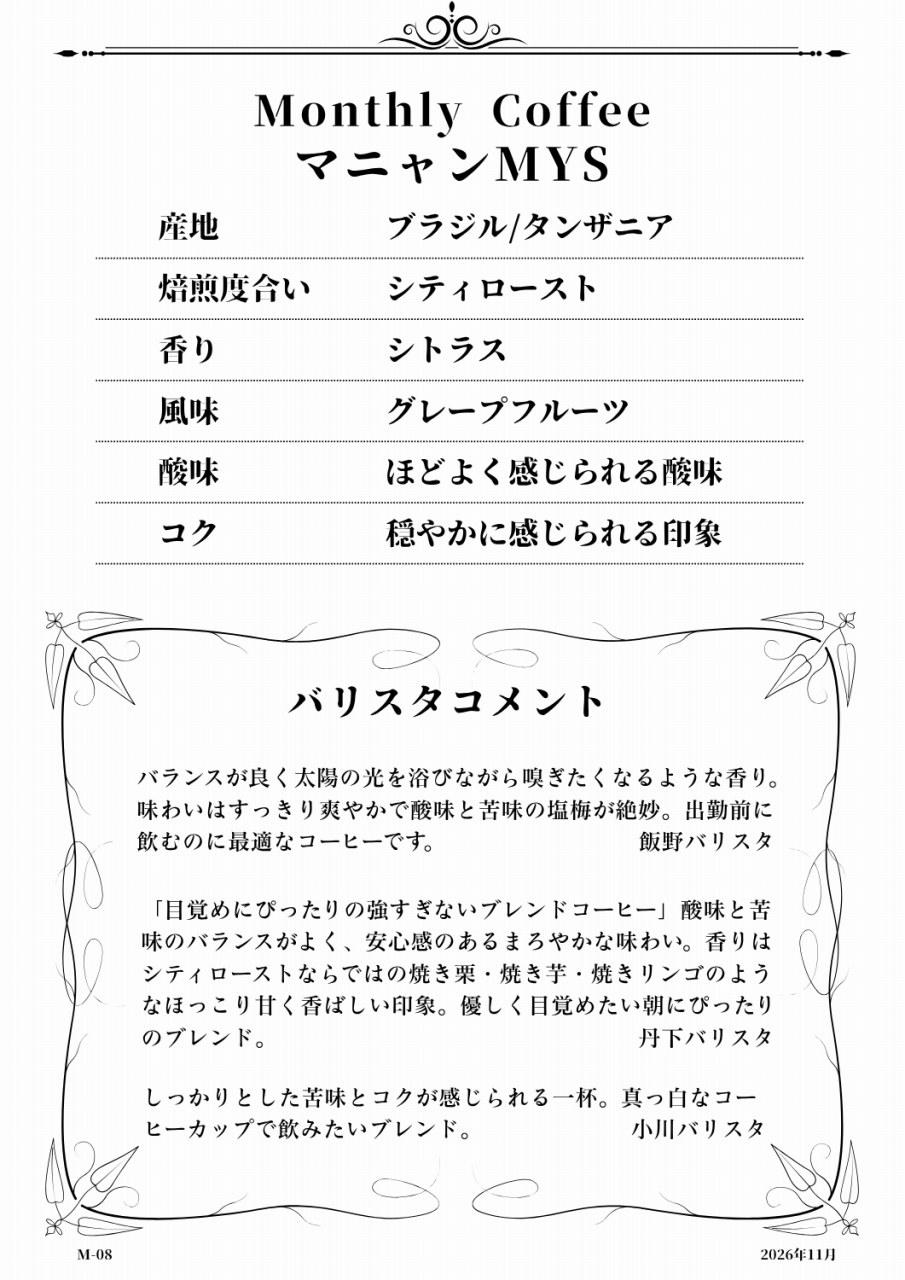
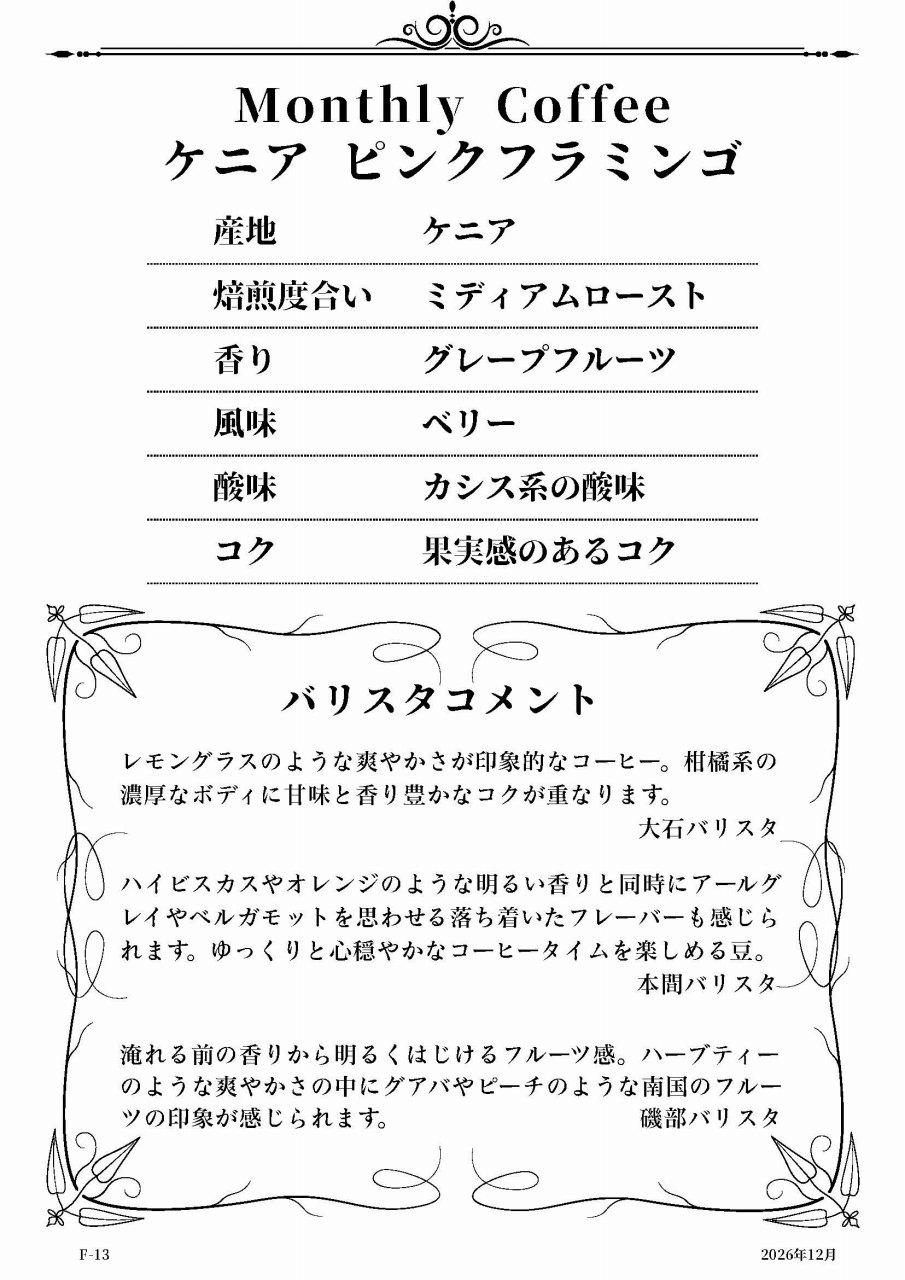
feat: update December monthly coffee and standardize monthly update workflow

Changed region(s): [[0.0309, 0.0, 0.9591, 1.0], [0.7735, 0.0938, 0.8354, 0.1562], [0.7735, 0.1875, 0.8354, 0.2188]]

diff --git a/public/en/index.html b/public/en/index.html
@@ -541,23 +541,41 @@
       <h2 class="text-4xl font-bold text-center mb-4 text-primary" data-aos="fade-up">Coffee Beans Collection</h2>
       <p class="text-center text-lg text-secondary mb-12" data-aos="fade-up">— 30 House-Roasted Varieties —</p>
 
-      <!-- Monthly Recommendations: cross-link banner -->
-      <div class="bg-gradient-to-r from-accent/10 to-accent/20 rounded-xl p-6 mb-16 shadow border border-accent/30" data-aos="fade-up">
-        <div class="flex flex-col sm:flex-row items-center justify-between gap-4">
-          <div>
-            <p class="font-bold text-primary text-lg mb-1">Monthly Coffee Recommendations</p>
-            <p class="text-text text-sm leading-relaxed">Our featured beans change every month. Check the Japanese site for the latest picks.</p>
+      <!-- Monthly Coffee -->
+      <div class="mb-16" data-aos="fade-up">
+        <h3 class="text-2xl font-bold text-center text-primary mb-1">Monthly Coffee</h3>
+        <p class="text-center text-sm text-secondary mb-6">December 2026</p>
+        <div class="grid grid-cols-2 gap-4 md:gap-6 max-w-xl mx-auto">
+          <div class="text-center">
+            <div class="relative group cursor-pointer" onclick="openModal(this)">
+              <img src="/assets/images/monthly-coffee/1.jpg?v=97d85fb3" alt="December 2026 Monthly Coffee – Kenya Pink Flamingo" class="w-full rounded-lg shadow-lg group-hover:shadow-xl transition-all duration-300 group-hover:scale-105" loading="lazy" decoding="async">
+              <div class="absolute inset-0 bg-black/0 group-hover:bg-black/20 transition-all duration-300 rounded-lg flex items-center justify-center">
+                <svg xmlns="http://www.w3.org/2000/svg" width="48" height="48" viewBox="0 0 24 24" fill="none" stroke="white" stroke-width="2" stroke-linecap="round" stroke-linejoin="round" class="opacity-0 group-hover:opacity-100 transition-opacity duration-300">
+                  <circle cx="11" cy="11" r="8"></circle>
+                  <path d="m21 21-4.3-4.3"></path>
+                  <line x1="11" y1="8" x2="11" y2="14"></line>
+                  <line x1="8" y1="11" x2="14" y2="11"></line>
+                </svg>
+              </div>
+            </div>
+            <p class="mt-2 text-sm font-semibold text-primary">Kenya Pink Flamingo</p>
           </div>
-          <a href="/#coffee-beans" target="_blank" rel="noopener noreferrer"
-             class="flex-shrink-0 inline-flex items-center gap-2 px-6 py-2.5 bg-primary text-white rounded-lg hover:bg-secondary transition-colors duration-300 shadow text-sm whitespace-nowrap">
-            View on Japanese Site
-            <svg xmlns="http://www.w3.org/2000/svg" width="16" height="16" viewBox="0 0 24 24" fill="none" stroke="currentColor" stroke-width="2" stroke-linecap="round" stroke-linejoin="round">
-              <path d="M18 13v6a2 2 0 0 1-2 2H5a2 2 0 0 1-2-2V8a2 2 0 0 1 2-2h6"/>
-              <polyline points="15 3 21 3 21 9"/>
-              <line x1="10" x2="21" y1="14" y2="3"/>
-            </svg>
-          </a>
+          <div class="text-center">
+            <div class="relative group cursor-pointer" onclick="openModal(this)">
+              <img src="/assets/images/monthly-coffee/2.jpg?v=529f8863" alt="December 2026 Monthly Coffee – Honduras" class="w-full rounded-lg shadow-lg group-hover:shadow-xl transition-all duration-300 group-hover:scale-105" loading="lazy" decoding="async">
+              <div class="absolute inset-0 bg-black/0 group-hover:bg-black/20 transition-all duration-300 rounded-lg flex items-center justify-center">
+                <svg xmlns="http://www.w3.org/2000/svg" width="48" height="48" viewBox="0 0 24 24" fill="none" stroke="white" stroke-width="2" stroke-linecap="round" stroke-linejoin="round" class="opacity-0 group-hover:opacity-100 transition-opacity duration-300">
+                  <circle cx="11" cy="11" r="8"></circle>
+                  <path d="m21 21-4.3-4.3"></path>
+                  <line x1="11" y1="8" x2="11" y2="14"></line>
+                  <line x1="8" y1="11" x2="14" y2="11"></line>
+                </svg>
+              </div>
+            </div>
+            <p class="mt-2 text-sm font-semibold text-primary">Honduras</p>
+          </div>
         </div>
+        <p class="text-center text-sm text-secondary mt-3">Click to enlarge</p>
       </div>
 
       <!-- Bean Category Cards -->
@@ -1052,7 +1070,7 @@
       <!-- Latest Issue -->
       <div class="w-full max-w-2xl mx-auto mb-16 px-4 sm:px-0" data-aos="zoom-in">
         <h3 class="text-2xl font-bold mb-4 text-center text-primary">Latest Issue</h3>
-        <div class="relative group cursor-pointer" onclick="openModal('/assets/images/magazine/latest.jpg')">
+        <div class="relative group cursor-pointer" onclick="openModal(this)">
           <img src="/assets/images/magazine/latest.jpg" alt="Latest issue of GBC Magazine, the monthly free newsletter by Green Beans Coffee in Kitasando and Sendagaya, Tokyo, featuring coffee tips, local Dagayasando news, and shop events." class="w-full rounded-lg shadow-lg group-hover:shadow-xl transition-all duration-300 group-hover:scale-105" loading="lazy" decoding="async">
           <!-- Hover Overlay with Zoom Icon -->
           <div class="absolute inset-0 bg-black/0 group-hover:bg-black/20 transition-all duration-300 rounded-lg flex items-center justify-center">
@@ -1071,7 +1089,7 @@
       <div class="max-w-4xl mx-auto">
         <h3 class="text-xl font-bold mb-6 text-center text-primary">Back Issues</h3>
         <div class="grid grid-cols-2 sm:grid-cols-2 md:grid-cols-3 gap-4">
-          <div class="relative group cursor-pointer" onclick="openModal('/assets/images/magazine/back-01.jpg')">
+          <div class="relative group cursor-pointer" onclick="openModal(this)">
             <img src="/assets/images/magazine/back-01.jpg" alt="GBC Magazine October 2026 issue, the monthly free newsletter published by Green Beans Coffee in Kitasando and Sendagaya, Tokyo." class="w-full rounded shadow group-hover:shadow-lg transition-all duration-300 group-hover:scale-105" loading="lazy" decoding="async">
             <div class="absolute inset-0 bg-black/0 group-hover:bg-black/20 transition-all duration-300 rounded flex items-center justify-center">
               <svg xmlns="http://www.w3.org/2000/svg" width="48" height="48" viewBox="0 0 24 24" fill="none" stroke="white" stroke-width="2" stroke-linecap="round" stroke-linejoin="round" class="opacity-0 group-hover:opacity-100 transition-opacity duration-300">
@@ -1082,7 +1100,7 @@
               </svg>
             </div>
           </div>
-          <div class="relative group cursor-pointer" onclick="openModal('/assets/images/magazine/back-02.jpg')">
+          <div class="relative group cursor-pointer" onclick="openModal(this)">
             <img src="/assets/images/magazine/back-02.jpg" alt="GBC Magazine September 2026 issue, the monthly free newsletter published by Green Beans Coffee in Kitasando and Sendagaya, Tokyo." class="w-full rounded shadow group-hover:shadow-lg transition-all duration-300 group-hover:scale-105" loading="lazy" decoding="async">
             <div class="absolute inset-0 bg-black/0 group-hover:bg-black/20 transition-all duration-300 rounded flex items-center justify-center">
               <svg xmlns="http://www.w3.org/2000/svg" width="48" height="48" viewBox="0 0 24 24" fill="none" stroke="white" stroke-width="2" stroke-linecap="round" stroke-linejoin="round" class="opacity-0 group-hover:opacity-100 transition-opacity duration-300">
@@ -1093,7 +1111,7 @@
               </svg>
             </div>
           </div>
-          <div class="relative group cursor-pointer" onclick="openModal('/assets/images/magazine/back-03.jpg')">
+          <div class="relative group cursor-pointer" onclick="openModal(this)">
             <img src="/assets/images/magazine/back-03.jpg" alt="GBC Magazine August 2026 issue, the monthly free newsletter published by Green Beans Coffee in Kitasando and Sendagaya, Tokyo." class="w-full rounded shadow group-hover:shadow-lg transition-all duration-300 group-hover:scale-105" loading="lazy" decoding="async">
             <div class="absolute inset-0 bg-black/0 group-hover:bg-black/20 transition-all duration-300 rounded flex items-center justify-center">
               <svg xmlns="http://www.w3.org/2000/svg" width="48" height="48" viewBox="0 0 24 24" fill="none" stroke="white" stroke-width="2" stroke-linecap="round" stroke-linejoin="round" class="opacity-0 group-hover:opacity-100 transition-opacity duration-300">
@@ -1104,7 +1122,7 @@
               </svg>
             </div>
           </div>
-          <div class="relative group cursor-pointer" onclick="openModal('/assets/images/magazine/back-04.jpg')">
+          <div class="relative group cursor-pointer" onclick="openModal(this)">
             <img src="/assets/images/magazine/back-04.jpg" alt="GBC Magazine July 2026 issue, the monthly free newsletter published by Green Beans Coffee in Kitasando and Sendagaya, Tokyo." class="w-full rounded shadow group-hover:shadow-lg transition-all duration-300 group-hover:scale-105" loading="lazy" decoding="async">
             <div class="absolute inset-0 bg-black/0 group-hover:bg-black/20 transition-all duration-300 rounded flex items-center justify-center">
               <svg xmlns="http://www.w3.org/2000/svg" width="48" height="48" viewBox="0 0 24 24" fill="none" stroke="white" stroke-width="2" stroke-linecap="round" stroke-linejoin="round" class="opacity-0 group-hover:opacity-100 transition-opacity duration-300">
@@ -1115,7 +1133,7 @@
               </svg>
             </div>
           </div>
-          <div class="relative group cursor-pointer" onclick="openModal('/assets/images/magazine/back-05.jpg')">
+          <div class="relative group cursor-pointer" onclick="openModal(this)">
             <img src="/assets/images/magazine/back-05.jpg" alt="GBC Magazine June 2026 issue, the monthly free newsletter published by Green Beans Coffee in Kitasando and Sendagaya, Tokyo." class="w-full rounded shadow group-hover:shadow-lg transition-all duration-300 group-hover:scale-105" loading="lazy" decoding="async">
             <div class="absolute inset-0 bg-black/0 group-hover:bg-black/20 transition-all duration-300 rounded flex items-center justify-center">
               <svg xmlns="http://www.w3.org/2000/svg" width="48" height="48" viewBox="0 0 24 24" fill="none" stroke="white" stroke-width="2" stroke-linecap="round" stroke-linejoin="round" class="opacity-0 group-hover:opacity-100 transition-opacity duration-300">
@@ -1126,7 +1144,7 @@
               </svg>
             </div>
           </div>
-          <div class="relative group cursor-pointer" onclick="openModal('/assets/images/magazine/back-06.jpg')">
+          <div class="relative group cursor-pointer" onclick="openModal(this)">
             <img src="/assets/images/magazine/back-06.jpg" alt="GBC Magazine May 2026 issue, the monthly free newsletter published by Green Beans Coffee in Kitasando and Sendagaya, Tokyo." class="w-full rounded shadow group-hover:shadow-lg transition-all duration-300 group-hover:scale-105" loading="lazy" decoding="async">
             <div class="absolute inset-0 bg-black/0 group-hover:bg-black/20 transition-all duration-300 rounded flex items-center justify-center">
               <svg xmlns="http://www.w3.org/2000/svg" width="48" height="48" viewBox="0 0 24 24" fill="none" stroke="white" stroke-width="2" stroke-linecap="round" stroke-linejoin="round" class="opacity-0 group-hover:opacity-100 transition-opacity duration-300">
@@ -1145,8 +1163,16 @@
   </section>
 
   <!-- Modal for Image Zoom -->
-  <div id="imageModal" class="hidden fixed inset-0 bg-black/80 z-50 flex items-center justify-center" onclick="closeModal()">
-    <img id="modalImage" src="" alt="Enlarged GBC Magazine issue" class="max-w-full max-h-full p-4">
+  <div id="imageModal" class="hidden fixed inset-0 bg-black/80 z-50 flex items-center justify-center p-4" onclick="closeModal()">
+    <div class="relative" onclick="event.stopPropagation()">
+      <button onclick="closeModal()" class="absolute -top-12 right-0 text-white hover:text-accent transition bg-black/50 rounded-full p-2" aria-label="Close modal">
+        <svg xmlns="http://www.w3.org/2000/svg" width="28" height="28" viewBox="0 0 24 24" fill="none" stroke="currentColor" stroke-width="2" stroke-linecap="round" stroke-linejoin="round">
+          <line x1="18" y1="6" x2="6" y2="18"></line>
+          <line x1="6" y1="6" x2="18" y2="18"></line>
+        </svg>
+      </button>
+      <img id="modalImage" src="" alt="" class="max-h-[85vh] max-w-[90vw] w-auto h-auto rounded-lg">
+    </div>
   </div>
 
   <!-- Articles Section -->
@@ -2220,9 +2246,11 @@
       }
     });
 
-    // Modal functions for magazine images
-    function openModal(src) {
-      document.getElementById('modalImage').src = src;
+    // Modal functions for magazine and monthly coffee images
+    function openModal(el) {
+      const img = el.querySelector('img');
+      document.getElementById('modalImage').src = img.src;
+      document.getElementById('modalImage').alt = img.alt;
       document.getElementById('imageModal').classList.remove('hidden');
     }
     function closeModal() {

diff --git a/public/index.html b/public/index.html
@@ -583,8 +583,8 @@
         <h3 class="text-2xl font-bold text-center text-primary mb-6">今月のおすすめ</h3>
         <div class="grid grid-cols-2 gap-4 md:gap-6 max-w-xl mx-auto">
           <div class="text-center">
-            <div class="relative group cursor-pointer" onclick="openMonthlyModal(1)">
-              <img src="/assets/images/monthly-coffee/1.jpg" alt="今月のおすすめコーヒー：ケニアピンクフラミンゴ" class="w-full rounded-lg shadow-lg group-hover:shadow-xl transition-all duration-300 group-hover:scale-105" loading="lazy" decoding="async">
+            <div class="relative group cursor-pointer" onclick="openMonthlyModal(this)">
+              <img src="/assets/images/monthly-coffee/1.jpg?v=97d85fb3" alt="2026年12月のおすすめコーヒー豆：ケニア ピンクフラミンゴ" class="w-full rounded-lg shadow-lg group-hover:shadow-xl transition-all duration-300 group-hover:scale-105" loading="lazy" decoding="async">
               <div class="absolute inset-0 bg-black/0 group-hover:bg-black/20 transition-all duration-300 rounded-lg flex items-center justify-center">
                 <svg xmlns="http://www.w3.org/2000/svg" width="48" height="48" viewBox="0 0 24 24" fill="none" stroke="white" stroke-width="2" stroke-linecap="round" stroke-linejoin="round" class="opacity-0 group-hover:opacity-100 transition-opacity duration-300">
                   <circle cx="11" cy="11" r="8"></circle>
@@ -596,8 +596,8 @@
             </div>
           </div>
           <div class="text-center">
-            <div class="relative group cursor-pointer" onclick="openMonthlyModal(2)">
-              <img src="/assets/images/monthly-coffee/2.jpg" alt="今月のおすすめコーヒー：コロンビア デカフェ" class="w-full rounded-lg shadow-lg group-hover:shadow-xl transition-all duration-300 group-hover:scale-105" loading="lazy" decoding="async">
+            <div class="relative group cursor-pointer" onclick="openMonthlyModal(this)">
+              <img src="/assets/images/monthly-coffee/2.jpg?v=529f8863" alt="2026年12月のおすすめコーヒー豆：ホンジュラス" class="w-full rounded-lg shadow-lg group-hover:shadow-xl transition-all duration-300 group-hover:scale-105" loading="lazy" decoding="async">
               <div class="absolute inset-0 bg-black/0 group-hover:bg-black/20 transition-all duration-300 rounded-lg flex items-center justify-center">
                 <svg xmlns="http://www.w3.org/2000/svg" width="48" height="48" viewBox="0 0 24 24" fill="none" stroke="white" stroke-width="2" stroke-linecap="round" stroke-linejoin="round" class="opacity-0 group-hover:opacity-100 transition-opacity duration-300">
                   <circle cx="11" cy="11" r="8"></circle>
@@ -2730,8 +2730,10 @@
     }
 
     // Monthly Coffee modal functions
-    function openMonthlyModal(num) {
-      document.getElementById('monthlyModalImage').src = '/assets/images/monthly-coffee/' + num + '.jpg';
+    function openMonthlyModal(el) {
+      const img = el.querySelector('img');
+      document.getElementById('monthlyModalImage').src = img.src;
+      document.getElementById('monthlyModalImage').alt = img.alt;
       document.getElementById('monthlyModal').classList.remove('hidden');
     }
 
@@ -2790,6 +2792,12 @@
       const paymentModal = document.getElementById('paymentModal');
       if (!paymentModal.classList.contains('hidden')) {
         if (e.key === 'Escape') closePaymentModal();
+      }
+
+      // Keyboard navigation for monthly coffee modal
+      const monthlyModal = document.getElementById('monthlyModal');
+      if (!monthlyModal.classList.contains('hidden')) {
+        if (e.key === 'Escape') closeMonthlyModal();
       }
     });
 

diff --git a/scripts/update-images.js b/scripts/update-images.js
@@ -236,23 +236,30 @@ async function main() {
   }
 
   // Monthly コーヒー処理
+  // 1.jpg・2.jpg は両方揃っている場合のみ処理する（片方のみの更新で左右がズレるのを防ぐ）。
+  // 処理後も inbox の元画像は削除しない。HTML更新・検証がすべて完了したことを確認してから、
+  // Claude Code が個別ファイル名で削除する運用とする（途中失敗時に元画像を保持するため）。
   log.header('Monthly コーヒー豆');
-  for (const [key, label, dest] of [
-    ['coffee1', '1.jpg', 'monthly-coffee/1.jpg'],
-    ['coffee2', '2.jpg', 'monthly-coffee/2.jpg'],
-  ]) {
-    const srcPath = inboxFiles[key];
-    if (existsSync(srcPath)) {
+  const coffee1Exists = existsSync(inboxFiles.coffee1);
+  const coffee2Exists = existsSync(inboxFiles.coffee2);
+  if (coffee1Exists !== coffee2Exists) {
+    log.error('monthly-coffee は 1.jpg と 2.jpg の両方が揃っている場合のみ処理します。片方のみのため処理をスキップしました。');
+  } else if (!coffee1Exists && !coffee2Exists) {
+    log.skip('monthly-coffee: スキップ（inbox になし）');
+  } else {
+    for (const [key, , dest] of [
+      ['coffee1', '1.jpg', 'monthly-coffee/1.jpg'],
+      ['coffee2', '2.jpg', 'monthly-coffee/2.jpg'],
+    ]) {
+      const srcPath = inboxFiles[key];
       const destPath = resolve(IMAGES, dest);
       if (tinify) {
         await compressAndCopy(srcPath, destPath, tinify);
       } else {
         await compressWithJimp(srcPath, destPath);
       }
-      unlinkSync(srcPath);
-    } else {
-      log.skip(`${label}: スキップ（inbox になし）`);
     }
+    log.info('inbox/monthly-coffee/1.jpg・2.jpg は削除していません。HTML更新・検証完了後に削除してください。');
   }
 
   // 完了メッセージ
